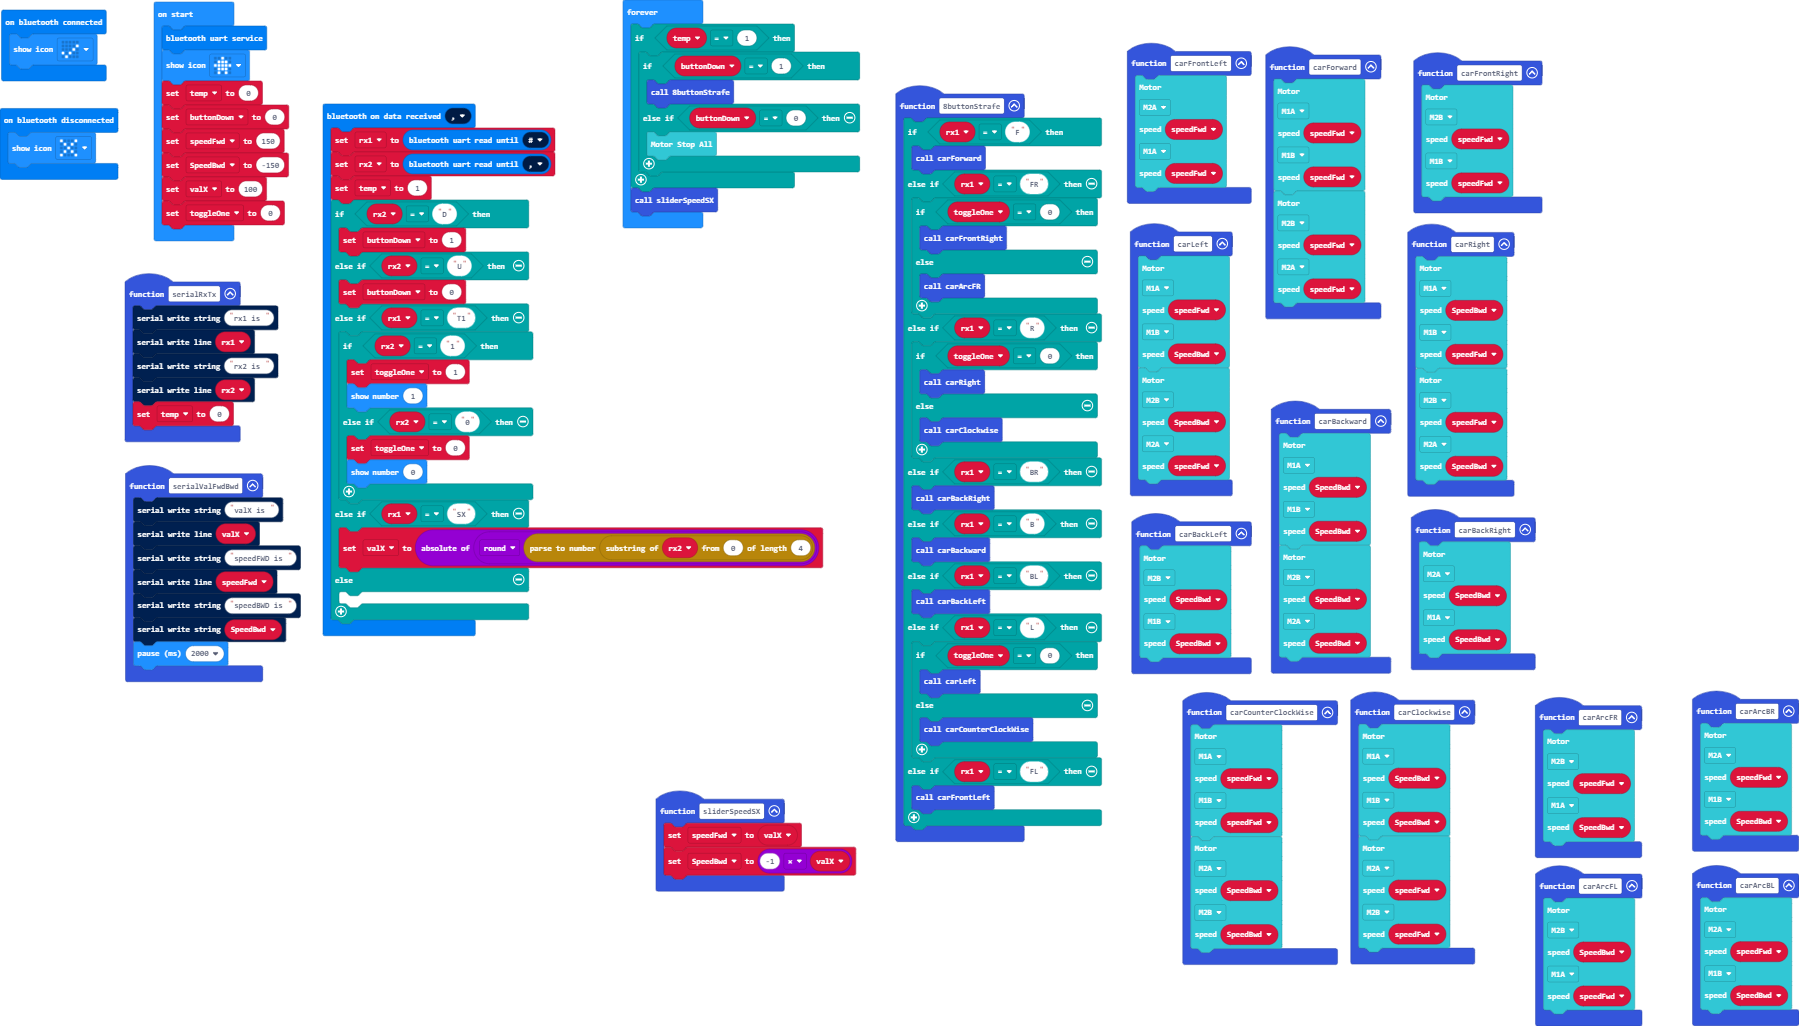
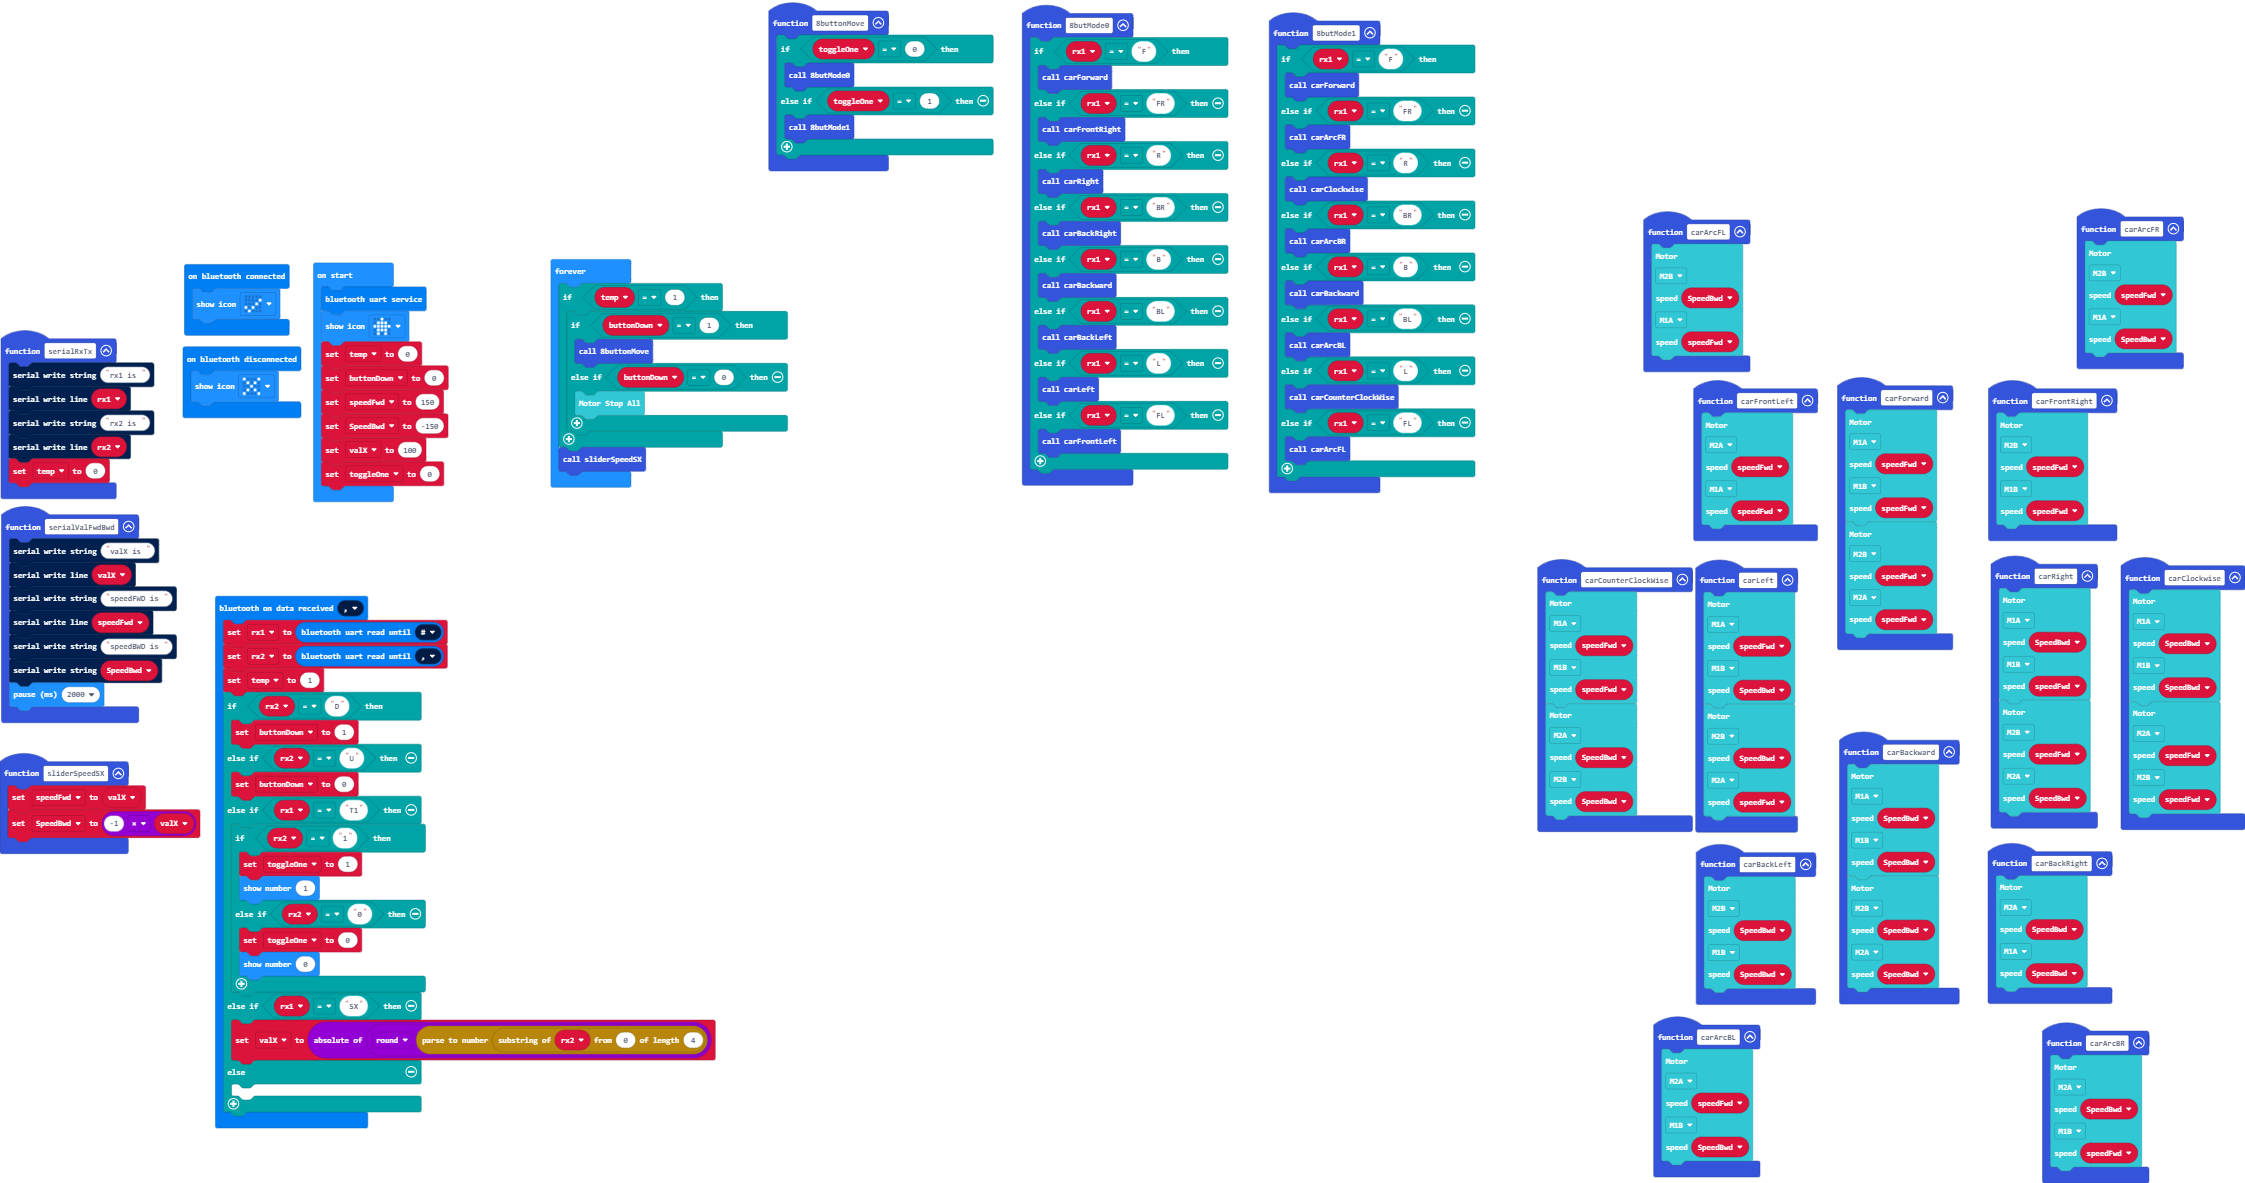
Update main.blocks, main.ts

diff --git a/main.ts b/main.ts
@@ -63,9 +63,9 @@ bluetooth.onBluetoothDisconnected(function () {
 function carArcBR () {
     robotbit.MotorRunDual(
     robotbit.Motors.M2A,
-    speedFwd,
+    SpeedBwd,
     robotbit.Motors.M1B,
-    SpeedBwd
+    speedFwd
     )
 }
 function serialValFwdBwd () {
@@ -76,6 +76,25 @@ function serialValFwdBwd () {
     serial.writeString("speedBWD is ")
     serial.writeString("" + (SpeedBwd))
     basic.pause(2000)
+}
+function _8butMode0 () {
+    if (rx1 == "F") {
+        carForward()
+    } else if (rx1 == "FR") {
+        carFrontRight()
+    } else if (rx1 == "R") {
+        carRight()
+    } else if (rx1 == "BR") {
+        carBackRight()
+    } else if (rx1 == "B") {
+        carBackward()
+    } else if (rx1 == "BL") {
+        carBackLeft()
+    } else if (rx1 == "L") {
+        carLeft()
+    } else if (rx1 == "FL") {
+        carFrontLeft()
+    }
 }
 function carRight () {
     robotbit.MotorRunDual(
@@ -172,35 +191,11 @@ function carBackLeft () {
     SpeedBwd
     )
 }
-function _8buttonStrafe () {
-    if (rx1 == "F") {
-        carForward()
-    } else if (rx1 == "FR") {
-        if (toggleOne == 0) {
-            carFrontRight()
-        } else {
-            carArcFR()
-        }
-    } else if (rx1 == "R") {
-        if (toggleOne == 0) {
-            carRight()
-        } else {
-            carClockwise()
-        }
-    } else if (rx1 == "BR") {
-        carBackRight()
-    } else if (rx1 == "B") {
-        carBackward()
-    } else if (rx1 == "BL") {
-        carBackLeft()
-    } else if (rx1 == "L") {
-        if (toggleOne == 0) {
-            carLeft()
-        } else {
-            carCounterClockWise()
-        }
-    } else if (rx1 == "FL") {
-        carFrontLeft()
+function _8buttonMove () {
+    if (toggleOne == 0) {
+        _8butMode0()
+    } else if (toggleOne == 1) {
+        _8butMode1()
     }
 }
 bluetooth.onUartDataReceived(serial.delimiters(Delimiters.Comma), function () {
@@ -225,6 +220,25 @@ bluetooth.onUartDataReceived(serial.delimiters(Delimiters.Comma), function () {
     	
     }
 })
+function _8butMode1 () {
+    if (rx1 == "F") {
+        carForward()
+    } else if (rx1 == "FR") {
+        carArcFR()
+    } else if (rx1 == "R") {
+        carClockwise()
+    } else if (rx1 == "BR") {
+        carArcBR()
+    } else if (rx1 == "B") {
+        carBackward()
+    } else if (rx1 == "BL") {
+        carArcBL()
+    } else if (rx1 == "L") {
+        carCounterClockWise()
+    } else if (rx1 == "FL") {
+        carArcFL()
+    }
+}
 let rx2 = ""
 let rx1 = ""
 let toggleOne = 0
@@ -244,7 +258,7 @@ toggleOne = 0
 basic.forever(function () {
     if (temp == 1) {
         if (buttonDown == 1) {
-            _8buttonStrafe()
+            _8buttonMove()
         } else if (buttonDown == 0) {
             robotbit.MotorStopAll()
         }
